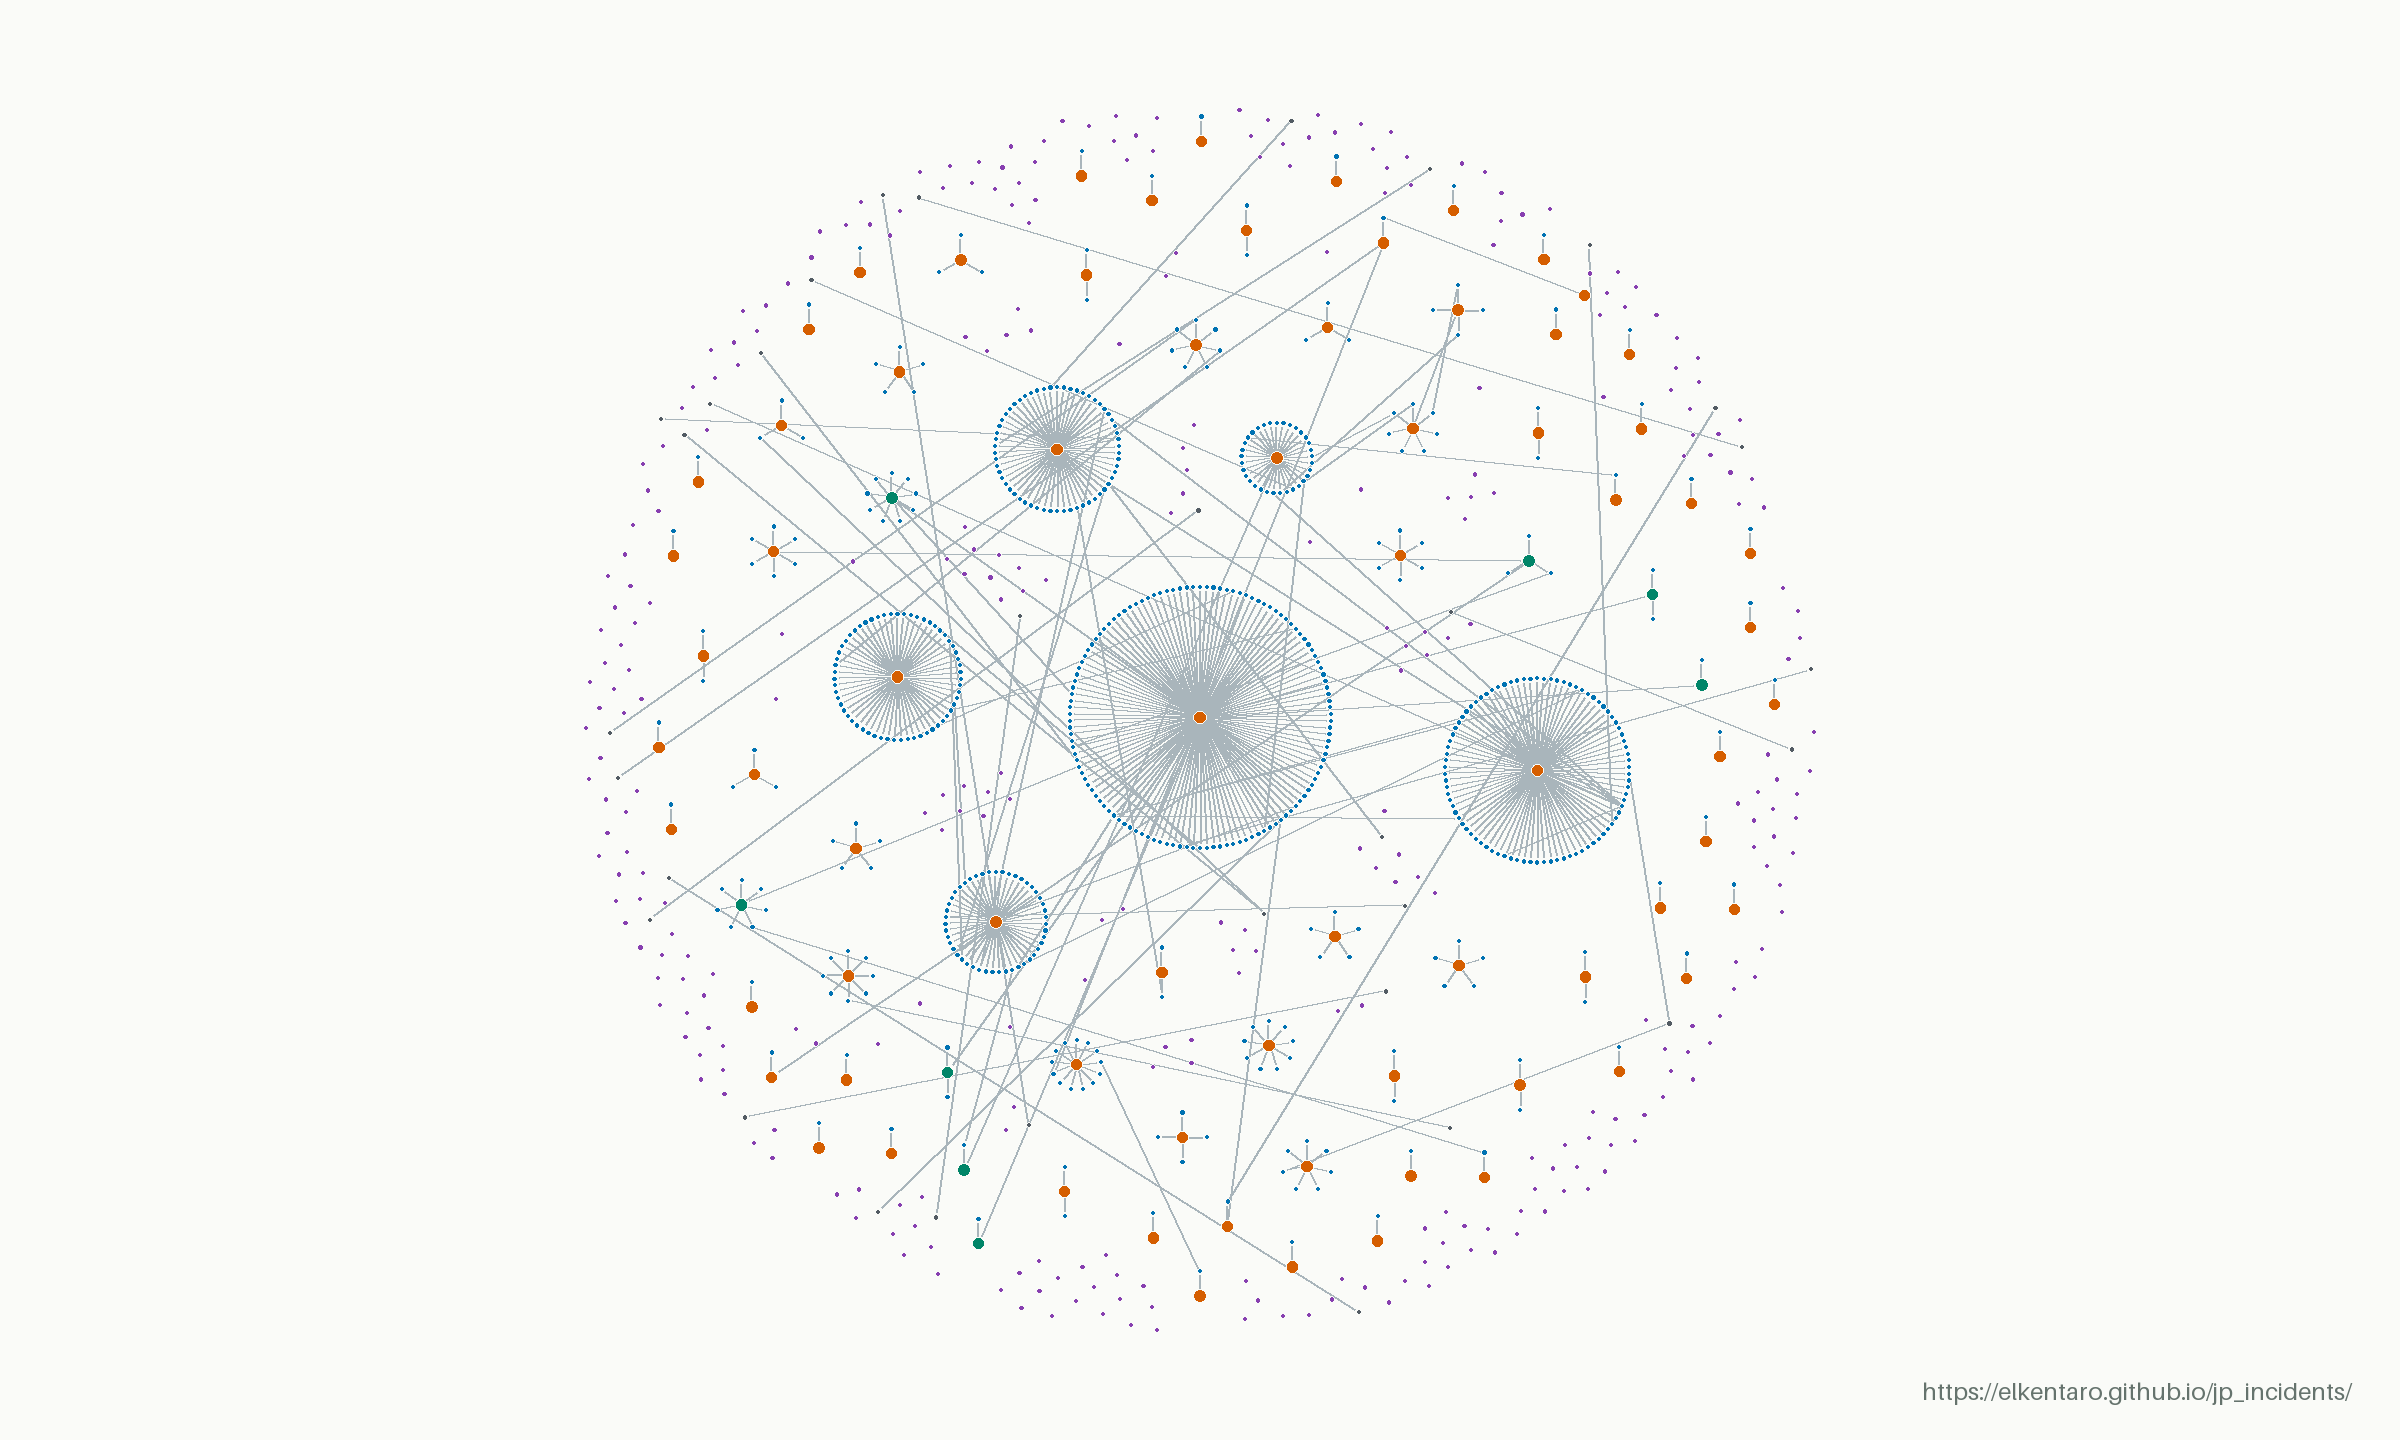
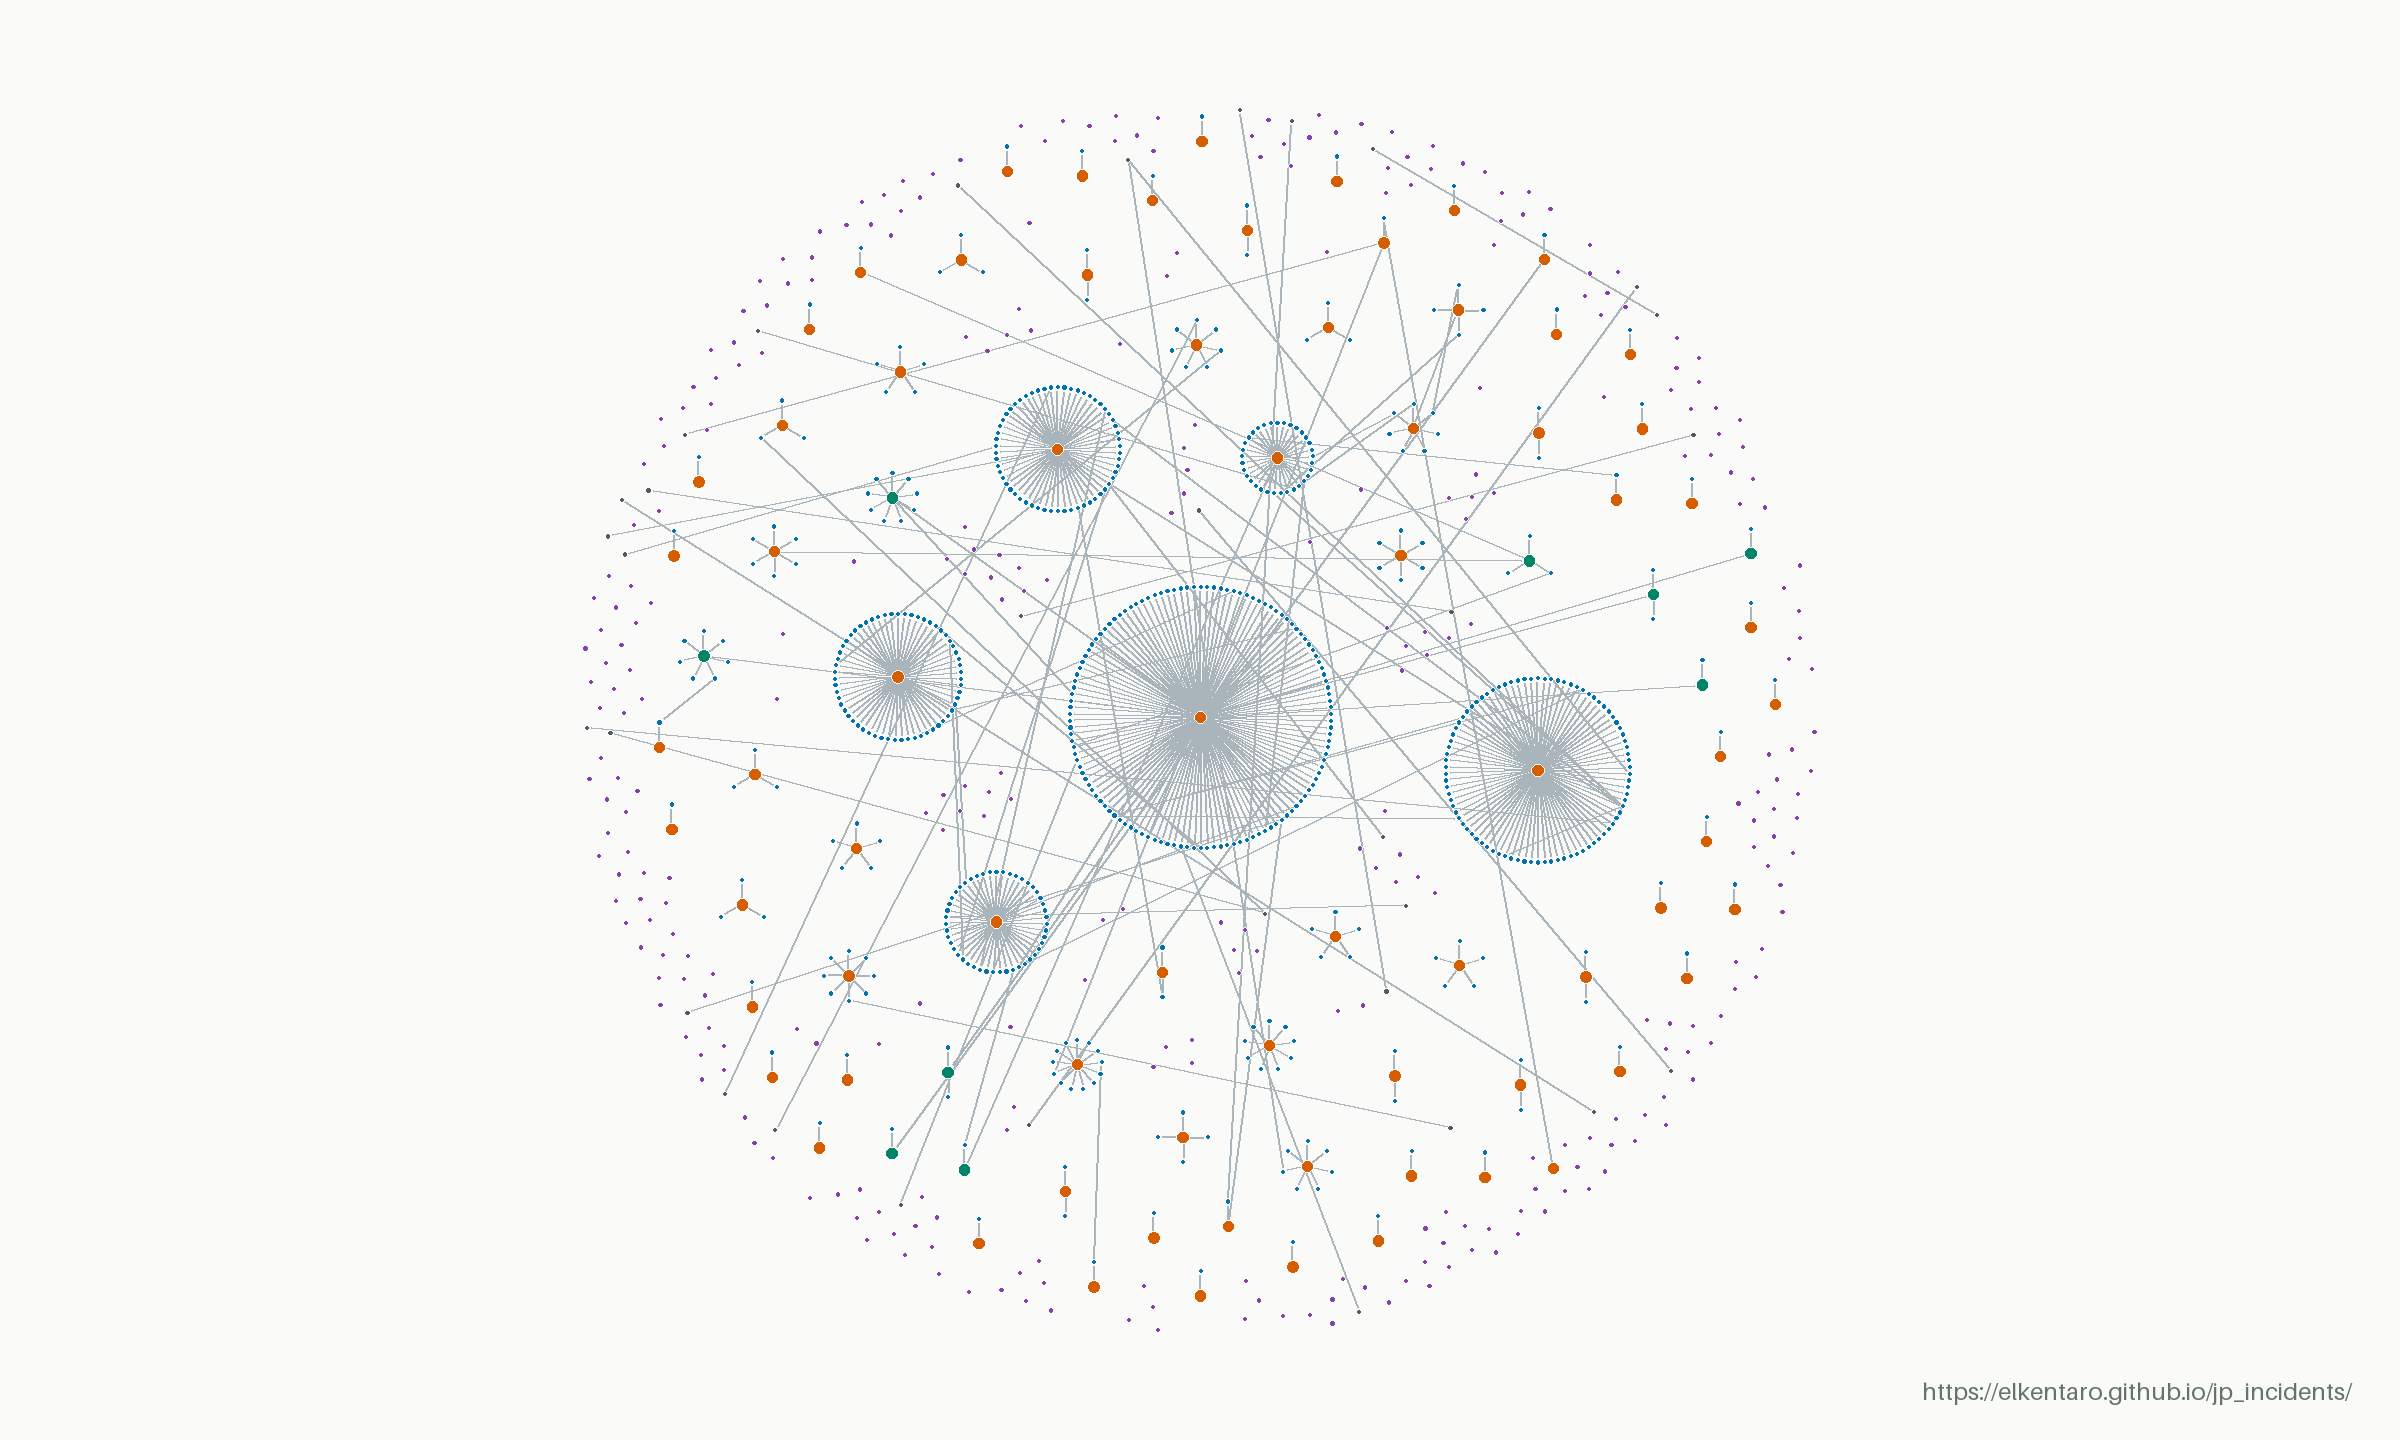
Update incident data (2026-11-09 21:16 UTC)

diff --git a/linkage.html b/linkage.html
@@ -33,30 +33,30 @@
     <section class="direct-summary" aria-labelledby="direct-title">
       <dl class="direct-stats">
         <div class="direct-total"><dt id="direct-title" data-copy="direct">Direct incidents</dt><dd id="direct-count">423</dd></div>
-        <div><dt data-copy="directUpstream">Upstream incidents</dt><dd id="upstream-count">73</dd></div>
-        <div><dt data-copy="directStandalone">Standalone incidents</dt><dd id="standalone-count">350</dd></div>
+        <div><dt data-copy="directUpstream">Upstream incidents</dt><dd id="upstream-count">74</dd></div>
+        <div><dt data-copy="directStandalone">Standalone incidents</dt><dd id="standalone-count">349</dd></div>
       </dl>
-      <p class="direct-excluded"><strong id="downstream-count">599</strong> <span data-copy="directExcluded">downstream records excluded, including incidents with both roles.</span></p>
+      <p class="direct-excluded"><strong id="downstream-count">603</strong> <span data-copy="directExcluded">downstream records excluded, including incidents with both roles.</span></p>
       <p class="direct-definition" data-copy="directDefinition">Direct incidents = upstream + standalone, based on recorded causal links. Standalone incidents have no upstream or downstream causal links, but may have other links, such as separate events at the same organization.</p>
     </section>
     <dl class="map-stats">
-      <div><dt data-copy="total">Incidents in snapshot</dt><dd>1022</dd></div>
-      <div><dt data-copy="linked">With recorded connections</dt><dd>704</dd></div>
-      <div><dt data-copy="links">Recorded connections</dt><dd>661</dd></div>
-      <div><dt data-copy="networks">Connected networks</dt><dd>62</dd></div>
+      <div><dt data-copy="total">Incidents in snapshot</dt><dd>1026</dd></div>
+      <div><dt data-copy="linked">With recorded connections</dt><dd>709</dd></div>
+      <div><dt data-copy="links">Recorded connections</dt><dd>665</dd></div>
+      <div><dt data-copy="networks">Connected networks</dt><dd>63</dd></div>
     </dl>
     <figure class="map-figure">
       <div class="map-image">
         <img src="data/linkage-map.png" width="2400" height="1440" alt="Anonymized incident map. Orange upstream hubs connect to blue downstream incidents; purple unlinked incidents appear throughout the same map without connecting lines." data-copy-alt="alt">
       </div>
       <figcaption>
-        <div class="map-caption-meta"><span><span data-copy="updated">Last updated</span>: <time datetime="2026-11-09T20:16:15.914496+00:00">2026-11-09 20:16 UTC</time></span><a href="data/linkage-map.png" target="_blank" rel="noopener" data-copy="open">Open full-resolution image ↗</a></div>
+        <div class="map-caption-meta"><span><span data-copy="updated">Last updated</span>: <time datetime="2026-11-09T21:16:20.997190+00:00">2026-11-09 21:16 UTC</time></span><a href="data/linkage-map.png" target="_blank" rel="noopener" data-copy="open">Open full-resolution image ↗</a></div>
         <div class="map-key-section">
           <strong id="map-key-title" data-copy="key">Key</strong>
           <ul class="map-key" aria-labelledby="map-key-title">
             <li><span class="key-dot upstream" aria-hidden="true"></span><span data-copy="keyUpstream">Upstream</span></li>
             <li><span class="key-dot downstream" aria-hidden="true"></span><span data-copy="keyDownstream">Downstream</span></li>
-            <li><span class="key-dot standalone" aria-hidden="true"></span><span data-copy="keyStandalone">Unlinked</span><span>(318)</span></li>
+            <li><span class="key-dot standalone" aria-hidden="true"></span><span data-copy="keyStandalone">Unlinked</span><span>(317)</span></li>
             <li><span class="key-dot both" aria-hidden="true"></span><span data-copy="keyBoth">Both roles</span></li>
             <li><span class="key-dot related" aria-hidden="true"></span><span data-copy="keyRelated">Other related</span></li>
             <li><span class="key-line" aria-hidden="true"></span><span data-copy="keyRelationship">Recorded relationship</span></li>
@@ -69,7 +69,7 @@
       <section><h2 data-copy="readingTitle">Reading the map</h2><p data-copy="reading">Orange marks upstream incidents, blue downstream incidents, and purple unlinked incidents with no recorded connection. Teal marks incidents with both upstream and downstream roles; charcoal marks other related incidents. A missing connection does not establish that two incidents are unrelated.</p></section>
       <section><h2 data-copy="snapshotTitle">About this snapshot</h2><p data-copy="snapshot">The static image is refreshed when published incidents or relationships change, and at least every 24 hours during normal publication. Larger upstream clusters have extra spacing to keep their victims apart. Names, incident IDs, source links and incident dates are omitted; the connection pattern is retained. It is an overview of recorded relationships, not a complete map of cyber incidents in Japan.</p></section>
     </div>
-    <p class="map-source"><span data-copy="sourceUpdated">Source data updated</span>: <time datetime="2026-11-09T20:16:13+00:00">2026-11-09T20:16:13+00:00</time> · <a href="./" data-copy="browse">Browse the incident index</a></p>
+    <p class="map-source"><span data-copy="sourceUpdated">Source data updated</span>: <time datetime="2026-11-09T21:16:19+00:00">2026-11-09T21:16:19+00:00</time> · <a href="./" data-copy="browse">Browse the incident index</a></p>
   </main>
   <footer><div class="shell footer-inner"><p data-copy="footer">Public reports. Recorded relationships. An anonymized overview.</p><a href="./" data-copy="back">Back to incidents</a></div></footer>
   <script src="linkage.js?v=20261107-spacing" defer></script>
